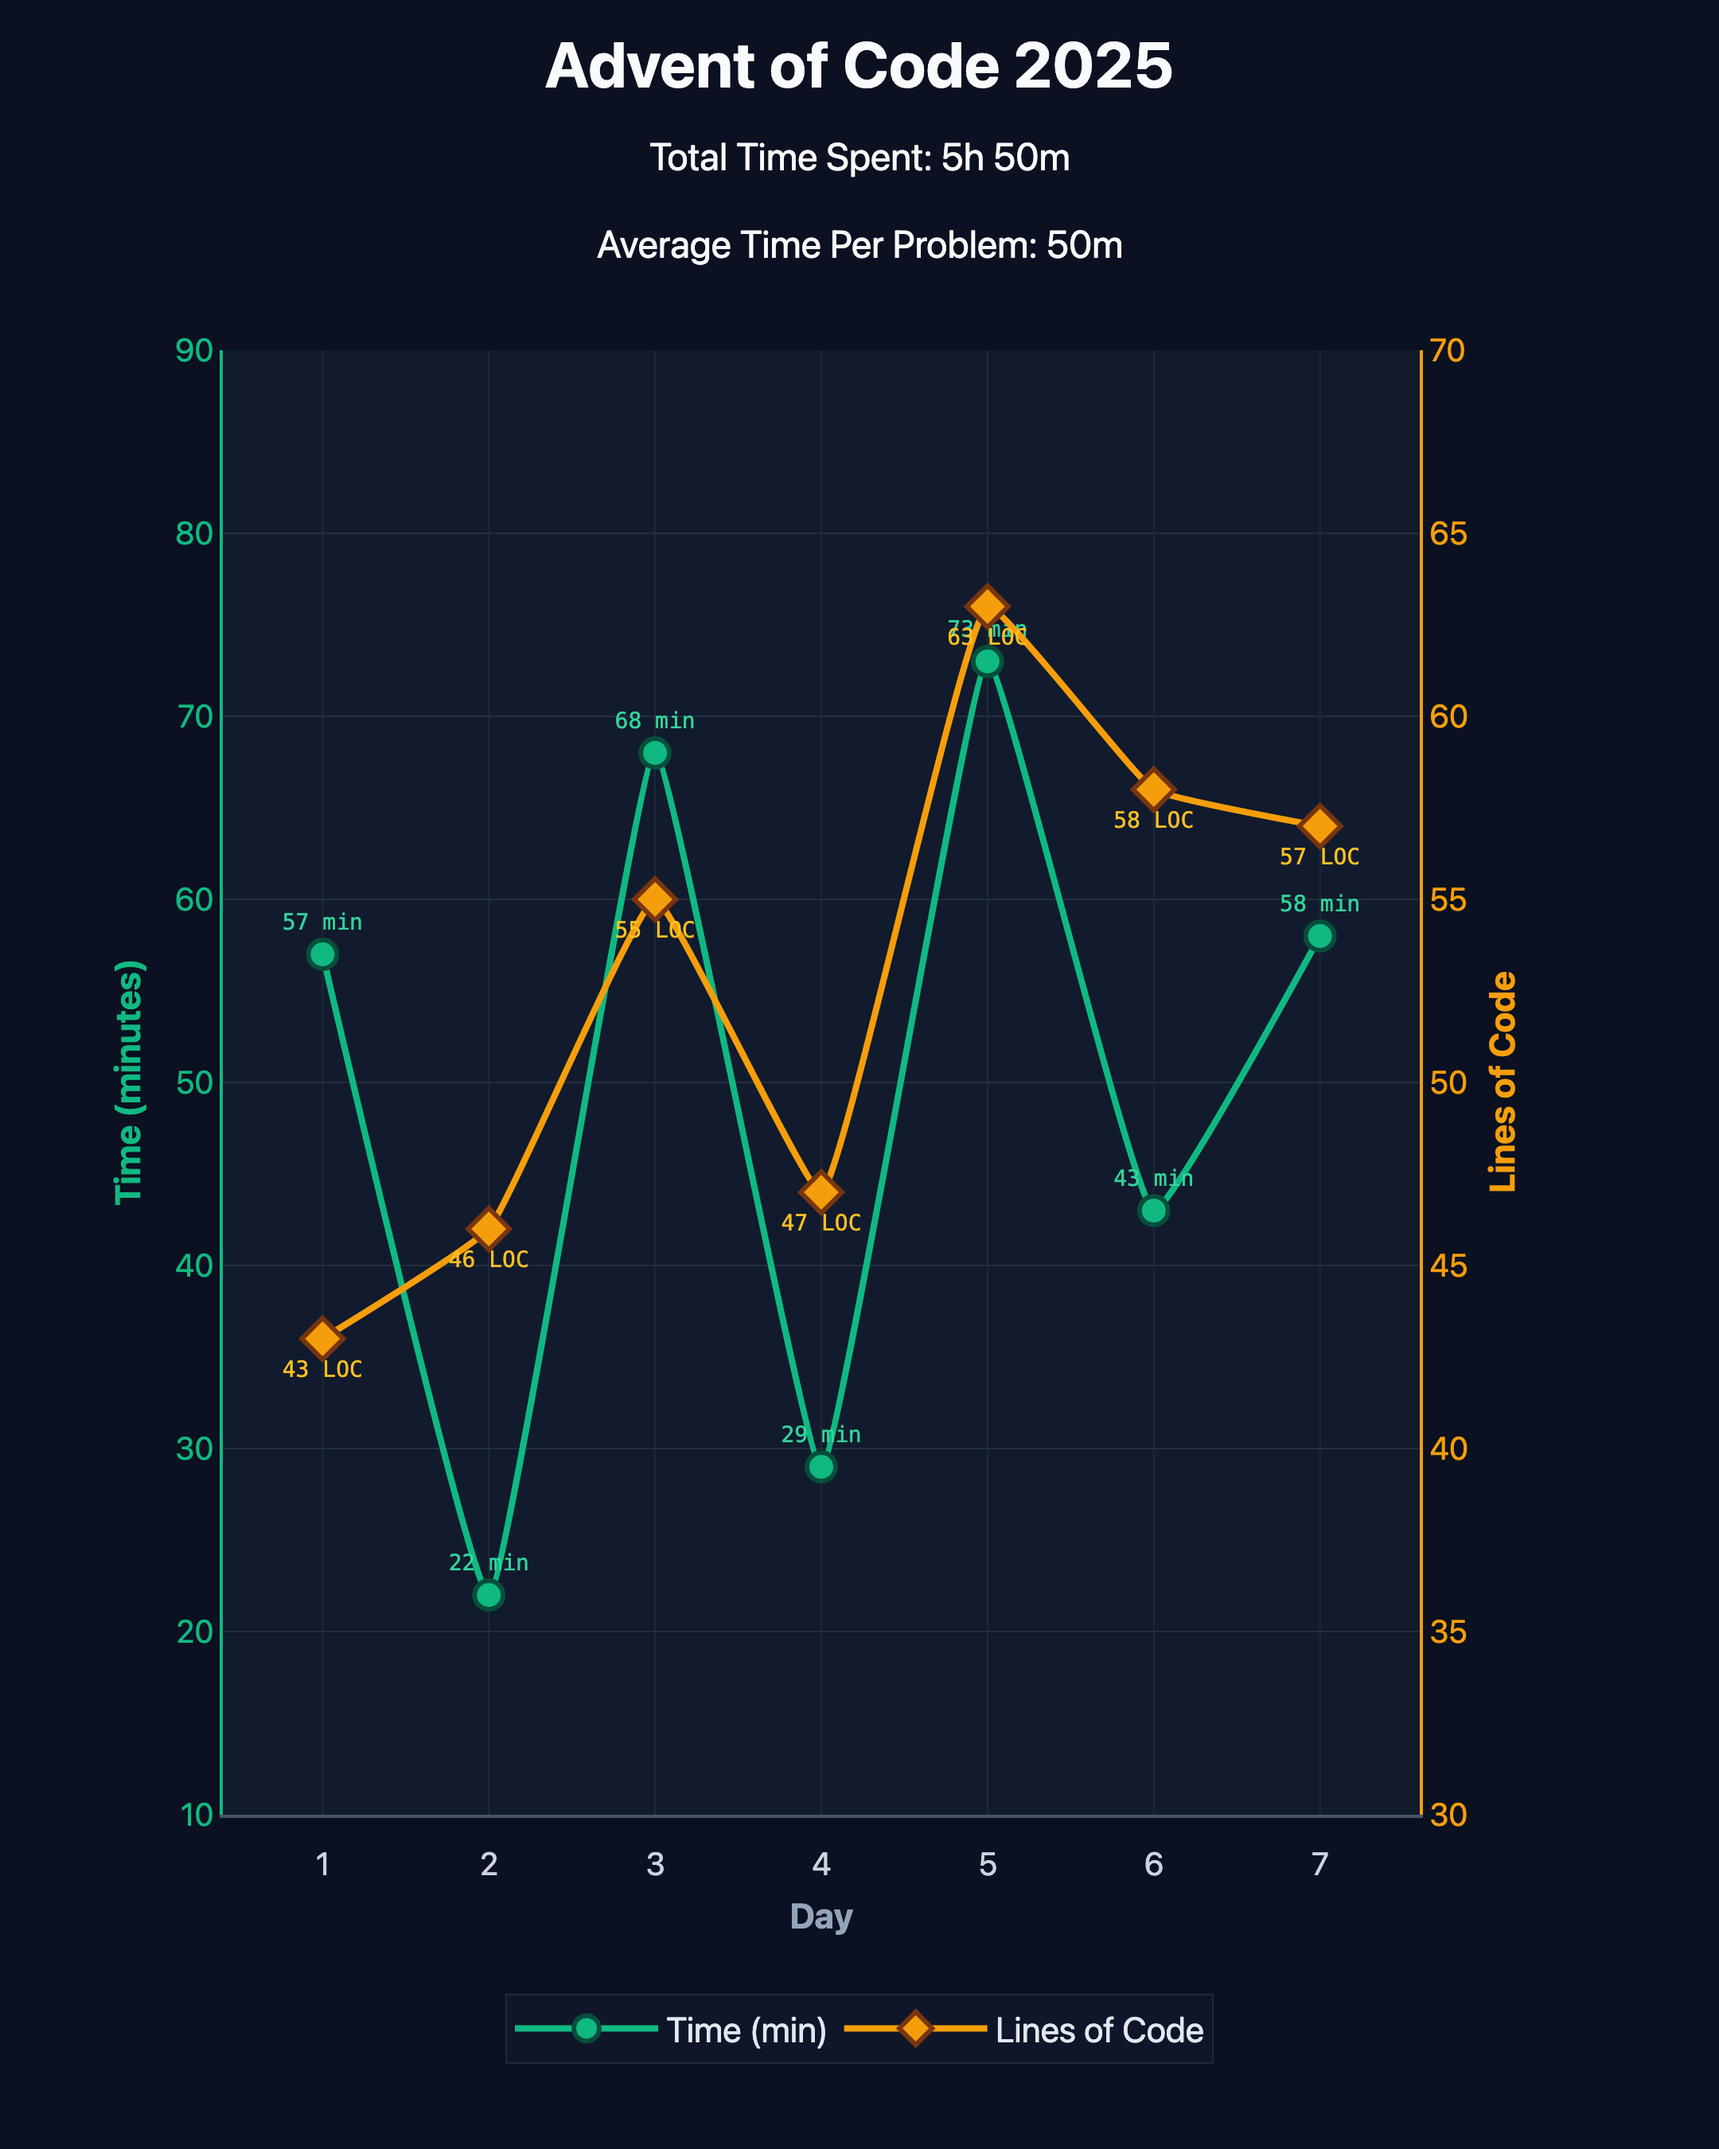
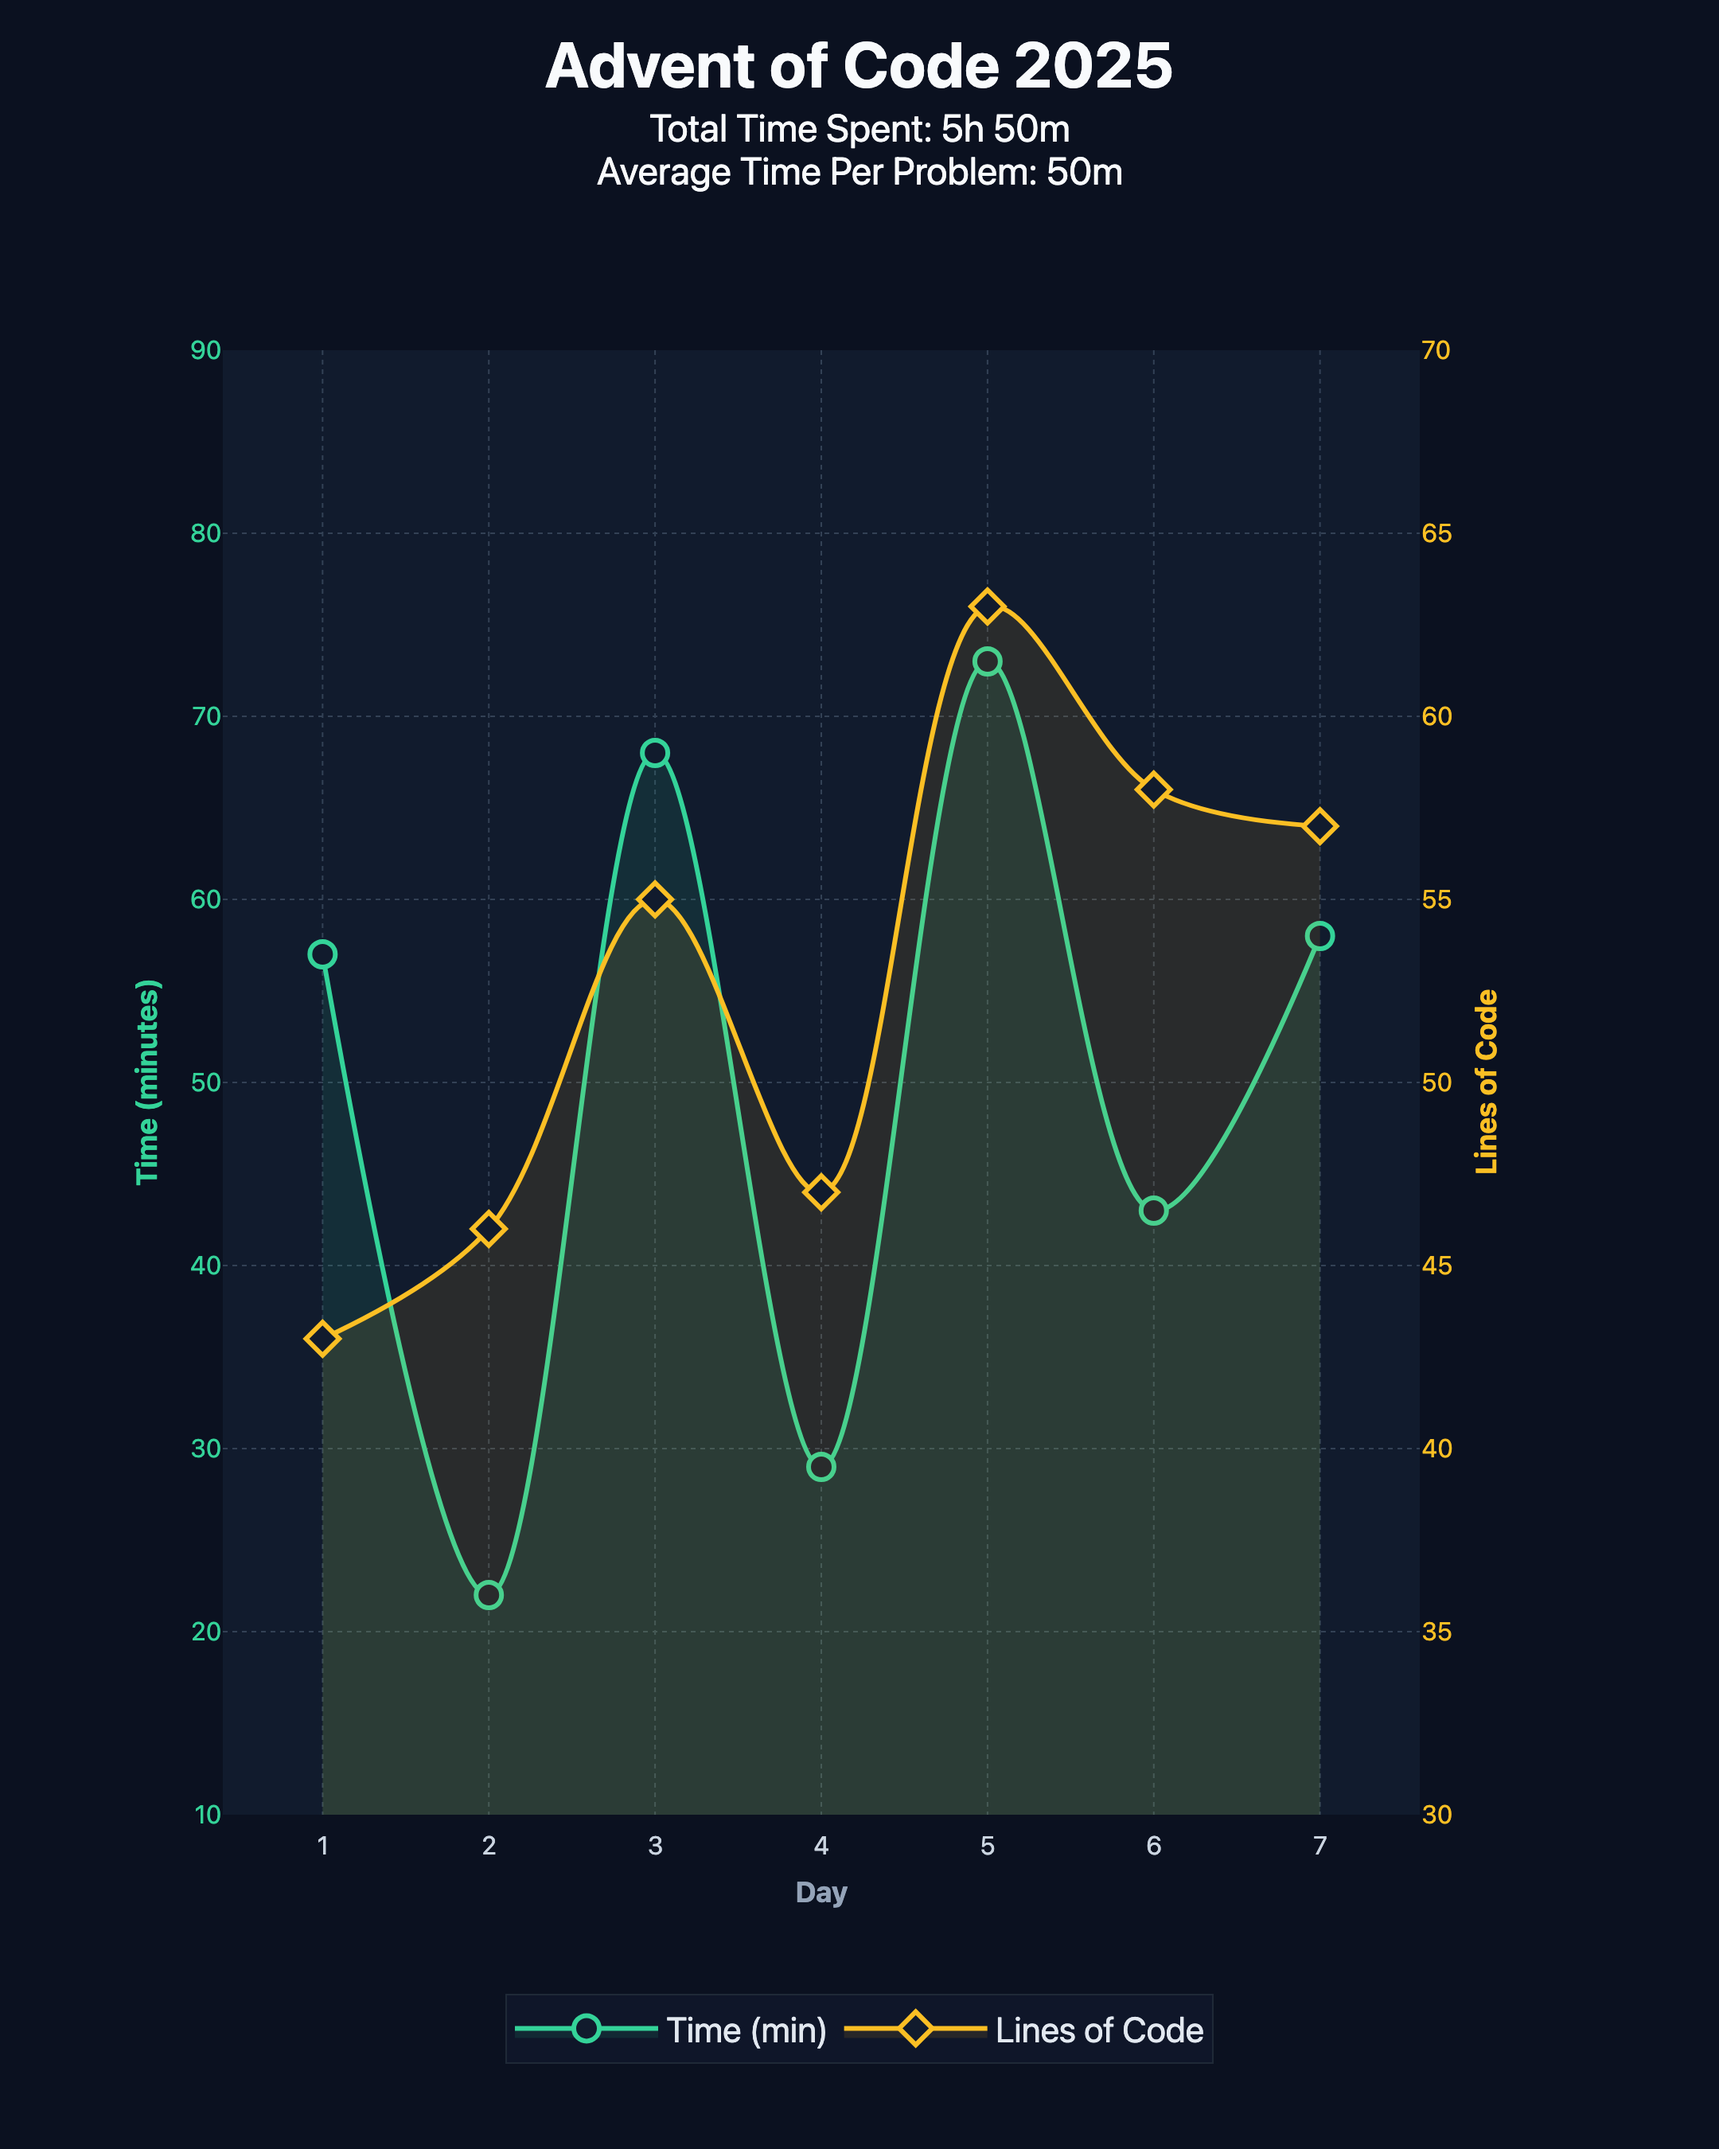
refactor: Simplify graph styling and improve visual clarity

diff --git a/generate_graph.py b/generate_graph.py
@@ -88,22 +88,21 @@ def generate_graph(data: list[tuple[int, dict]], output_path: Path) -> None:
             x=days,
             y=locs,
             name="Lines of Code",
-            mode="lines+markers+text",
-            text=[f"{loc} LOC" for loc in locs],
-            textposition="bottom center",
-            textfont={"size": 14, "color": "#fbbf24", "family": "JetBrains Mono, monospace"},
+            mode="lines+markers",  # Removed "+text" to reduce clutter
             line={
-                "color": "#f59e0b",
-                "width": 4,
+                "color": "#fbbf24",  # Brighter Amber
+                "width": 3,
                 "shape": "spline",
-                "smoothing": 0.3,
+                "smoothing": 1.0,  # Adjusted smoothing
             },
             marker={
-                "size": 20,
-                "color": "#f59e0b",
-                "line": {"color": "#78350f", "width": 3},
+                "size": 16,
+                "color": "#111b2d",  # Match plot_bgcolor for cutout effect
+                "line": {"color": "#fbbf24", "width": 3},
                 "symbol": "diamond",
             },
+            fill="tozeroy",  # Add area fill
+            fillcolor="rgba(251, 191, 36, 0.1)",  # Subtle amber tint
             hovertemplate="<b>Day %{x}</b><br>LOC: %{y}<extra></extra>",
             legendrank=2,
             cliponaxis=False,
@@ -117,22 +116,21 @@ def generate_graph(data: list[tuple[int, dict]], output_path: Path) -> None:
             x=days,
             y=times,
             name="Time (min)",
-            mode="lines+markers+text",
-            text=[f"{t} min" for t in times],
-            textposition="top center",
-            textfont={"size": 14, "color": "#34d399", "family": "JetBrains Mono, monospace"},
+            mode="lines+markers",  # Removed "+text"
             line={
-                "color": "#10b981",
-                "width": 4,
+                "color": "#34d399",  # Brighter Emerald
+                "width": 3,
                 "shape": "spline",
-                "smoothing": 0.3,
+                "smoothing": 1.0,
             },
             marker={
-                "size": 18,
-                "color": "#10b981",
-                "line": {"color": "#064e3b", "width": 3},
+                "size": 16,
+                "color": "#111b2d",  # Match plot_bgcolor for cutout effect
+                "line": {"color": "#34d399", "width": 3},
                 "symbol": "circle",
             },
+            fill="tozeroy",  # Add area fill
+            fillcolor="rgba(52, 211, 153, 0.1)",  # Subtle emerald tint
             hovertemplate="<b>Day %{x}</b><br>Time: %{y} min<extra></extra>",
             legendrank=1,
             cliponaxis=False,
@@ -156,7 +154,7 @@ def generate_graph(data: list[tuple[int, dict]], output_path: Path) -> None:
                 "xref": "paper",
                 "yref": "paper",
                 "x": 0.5,
-                "y": 1.15,
+                "y": 1.17,
                 "showarrow": False,
                 "font": {"size": 24, "color": "#f8fafc", "family": "system-ui, sans-serif"},
                 "xanchor": "center",
@@ -166,7 +164,7 @@ def generate_graph(data: list[tuple[int, dict]], output_path: Path) -> None:
                 "xref": "paper",
                 "yref": "paper",
                 "x": 0.5,
-                "y": 1.09,
+                "y": 1.14,
                 "showarrow": False,
                 "font": {"size": 24, "color": "#f8fafc", "family": "system-ui, sans-serif"},
                 "xanchor": "center",
@@ -210,21 +208,20 @@ def generate_graph(data: list[tuple[int, dict]], output_path: Path) -> None:
 
     fig.update_xaxes(
         title_text="<b>Day</b>",
-        title_font={"size": 22, "color": "#94a3b8"},
-        tickfont={"size": 20, "color": "#cbd5e1"},
+        title_font={"size": 18, "color": "#94a3b8"},
+        tickfont={"size": 16, "color": "#cbd5e1"},
         tickmode="array",
         tickvals=days,
         ticktext=[f"{d}" for d in days],
-        gridcolor="#1f2937",
+        gridcolor="#334155",
         gridwidth=1,
+        griddash="dot",  # Dashed vertical lines
         zeroline=False,
-        showline=True,
-        linewidth=2,
-        linecolor="#475569",
+        showline=False,  # Remove solid axis line
         range=[x_min, x_max],
-        ticklen=10,
-        tickcolor="#475569",
-        ticklabelstandoff=12,
+        ticklen=8,
+        tickcolor="#334155",
+        ticklabelstandoff=8,
     )
 
     # Calculate sensible y-axis ranges with nice round numbers
@@ -250,35 +247,33 @@ def generate_graph(data: list[tuple[int, dict]], output_path: Path) -> None:
     # Primary y-axis (Time)
     fig.update_yaxes(
         title_text="<b>Time (minutes)</b>",
-        title_font={"size": 22, "color": "#10b981"},
-        tickfont={"size": 20, "color": "#10b981"},
-        gridcolor="#1f2937",
+        title_font={"size": 18, "color": "#34d399"},
+        tickfont={"size": 16, "color": "#34d399"},
+        gridcolor="#334155",
         gridwidth=1,
+        griddash="dot",
         zeroline=False,
-        showline=True,
-        linewidth=2,
-        linecolor="#10b981",
+        showline=False,
         secondary_y=False,
         range=[time_min, time_max],
         ticklen=8,
+        tickcolor="#334155",
     )
 
     # Secondary y-axis (LOC)
     fig.update_yaxes(
         title_text="<b>Lines of Code</b>",
-        title_font={"size": 22, "color": "#f59e0b"},
-        tickfont={"size": 20, "color": "#f59e0b"},
-        gridcolor="rgba(51, 65, 85, 0.25)",
-        gridwidth=1,
+        title_font={"size": 18, "color": "#fbbf24"},
+        tickfont={"size": 16, "color": "#fbbf24"},
+        showgrid=False,  # Hide secondary grid to prevent visual clutter
         zeroline=False,
-        showline=True,
-        linewidth=2,
-        linecolor="#f59e0b",
+        showline=False,
         secondary_y=True,
         range=[loc_min, loc_max],
         overlaying="y",
         side="right",
         ticklen=8,
+        tickcolor="#334155",
     )
 
     # Add subtle gradient effect with shapes
